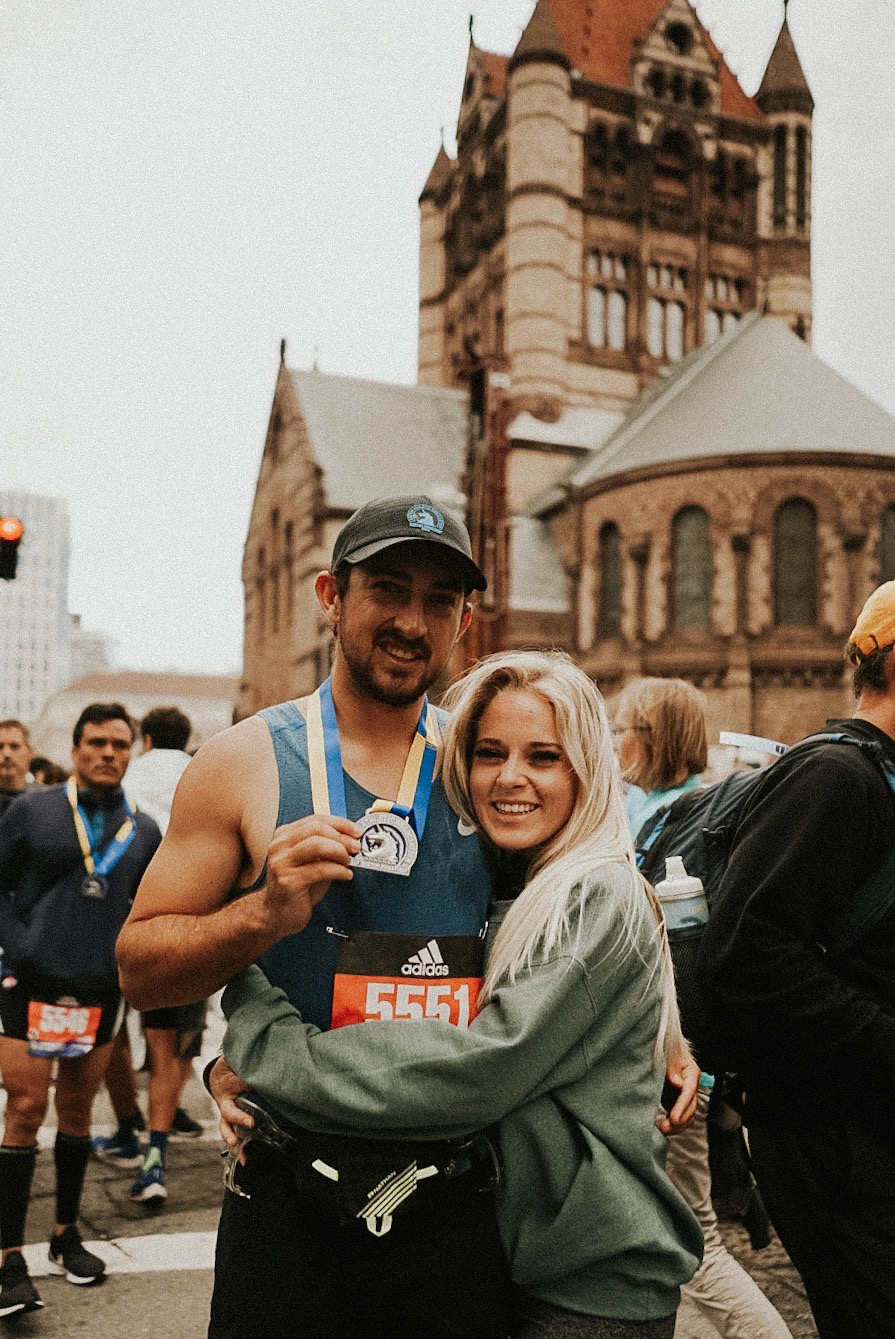
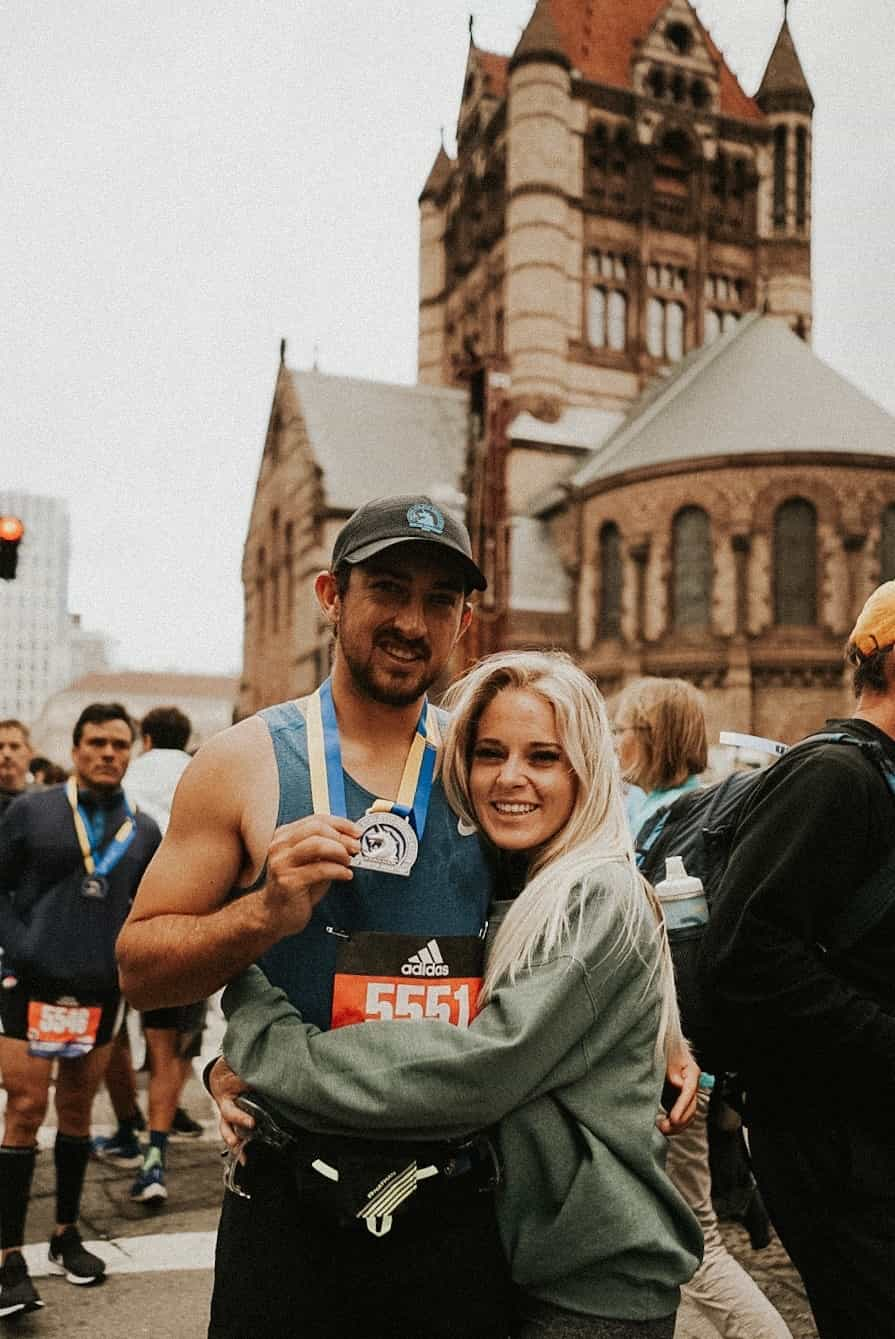
reduced image quality for photos for faster load times

diff --git a/src/Components/Projects/projects.scss b/src/Components/Projects/projects.scss
@@ -54,25 +54,25 @@
 
 .personal1{
     @include project-photo;
-    background-image: url('../../assets/personal/personal1.png');
+    background-image: url('../../assets/personal/personal1.jpg');
     background-position-x: center;
 }
 
 .personal2 {
     @include project-photo;
-    background-image: url('../../assets/personal/personal2.png');
+    background-image: url('../../assets/personal/personal2.jpg');
     background-position-x: center;
 }
 
 .personal3 {
     @include project-photo;
-    background-image: url('../../assets/personal/personal3.png');
+    background-image: url('../../assets/personal/personal3.jpg');
     background-position-x: center;
 }
 
 .personal4 {
     @include project-photo;
-    background-image: url('../../assets/personal/personal4.png');
+    background-image: url('../../assets/personal/personal4.jpg');
     background-position-x: center;
 }
 
@@ -102,25 +102,25 @@
 
 .group1{
     @include project-photo;
-    background-image: url('../../assets/group/group1.png');
+    background-image: url('../../assets/group/group1.jpg');
     background-position-x: center;
 }
 
 .group2 {
     @include project-photo;
-    background-image: url('../../assets/group/group2.png');
+    background-image: url('../../assets/group/group2.jpg');
     background-position-x: center;
 }
 
 .group3 {
     @include project-photo;
-    background-image: url('../../assets/group/group3.png');
+    background-image: url('../../assets/group/group3.jpg');
     background-position-x: center;
 }
 
 .group4 {
     @include project-photo;
-    background-image: url('../../assets/group/group4.png');
+    background-image: url('../../assets/group/group4.jpg');
     background-position-x: center;
 }
 

diff --git a/src/Components/About/about.scss b/src/Components/About/about.scss
@@ -36,13 +36,13 @@
 
 .photo1{
     @include photo;
-    background-image: url('../../assets/picture1.png');
+    background-image: url('../../assets/picture1.jpg');
     background-position-x: center;
 }
 
 .photo2 {
     @include photo;
-    background-image: url('../../assets/picture3.JPG');
+    background-image: url('../../assets/picture3.jpg');
 }
 
 .photo3 {
@@ -53,7 +53,7 @@
 
 .photo4 {
     @include photo;
-    background-image: url('../../assets/picture2.JPG');
+    background-image: url('../../assets/picture2.jpg');
     background-position-y: 80%;
 }
 

diff --git a/src/Components/About/About.jsx b/src/Components/About/About.jsx
@@ -1,6 +1,6 @@
 import React, {Component} from 'react'
 import Slider from 'react-slick'
-import photo from '../../assets/picture1.png'
+import photo from '../../assets/picture1.jpg'
 
 export default class About extends Component {
     constructor() {
